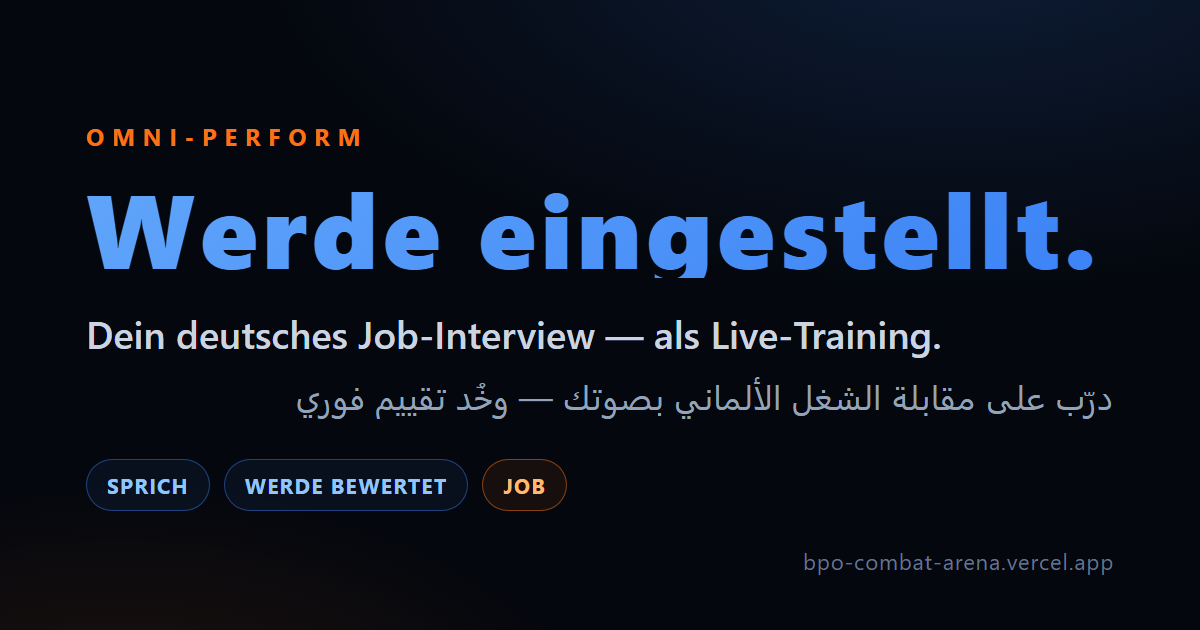
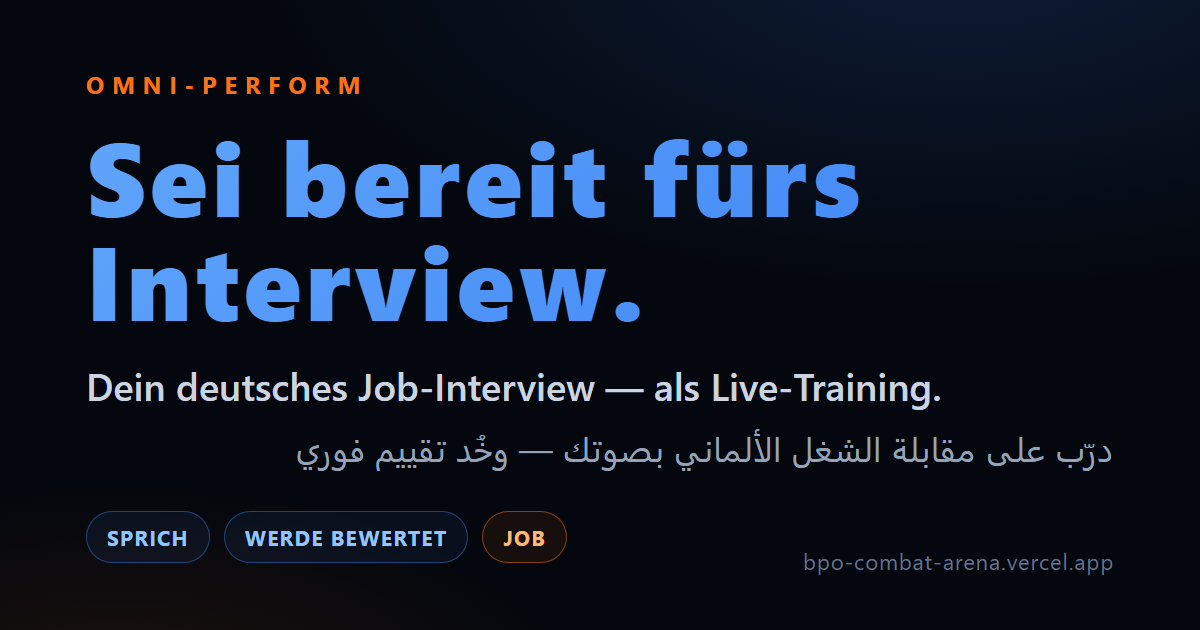
fix(trust): kill two false prospect-facing claims (OG outcome-promise + signup reset)
1. OG share image headlined "Werde eingestellt." (Get Hired.) — a direct outcome
   promise that contradicts our own ToS §1 and the no-promises legal redline. Every
   WhatsApp/Facebook link preview showed it. Replaced with "Sei bereit fürs Interview."
   (a true readiness/training claim, regenerated + eyeball-verified). Also fixed
   make-og.mjs writing to a dead worktree path instead of client/public/og.png.
2. Signup WhatsApp field promised "Passwort-Reset" via WhatsApp — reset is email-only
   (and WhatsApp never did it). German now matches the already-correct Arabic:
   "Für Coach-Erinnerungen — kein Spam."

Prospect-facing copy only; no logic touched. Owner may reword the OG headline.

Claude-Session: https://claude.ai/code/session_01TgBKGxkVcibKcbwQg6ZDgQ

diff --git a/client/src/App.jsx b/client/src/App.jsx
@@ -2650,7 +2650,7 @@ function AuthScreen({ onAuth }) {
               autoComplete="tel" inputMode="tel"
               onKeyDown={(e)=>{ if(e.key==='Enter') submit(); }} className="uplift-input" style={inputStyle} />
             <div style={{ fontSize:'var(--fs-meta)', color:'var(--text-faint)', marginTop:6, lineHeight:1.5 }}>
-              Für Coach-Erinnerungen und Passwort-Reset — kein Spam. <span dir="rtl">للتذكير الشخصي من الكوتش — مفيش سبام.</span>
+              Für Coach-Erinnerungen — kein Spam. <span dir="rtl">للتذكير الشخصي من الكوتش — مفيش سبام.</span>
             </div>
           </>
         )}
